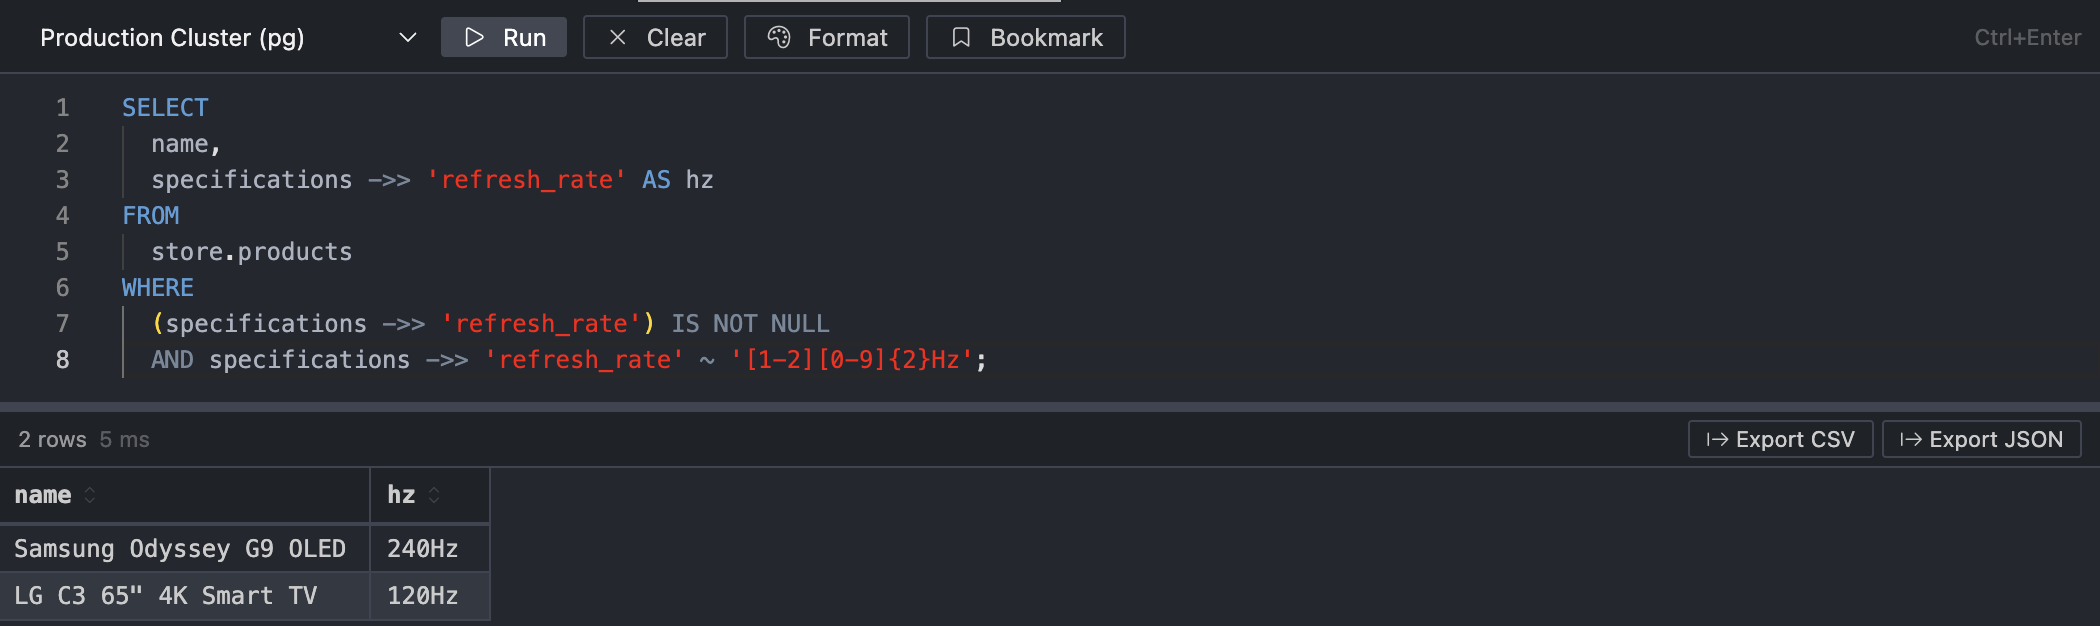
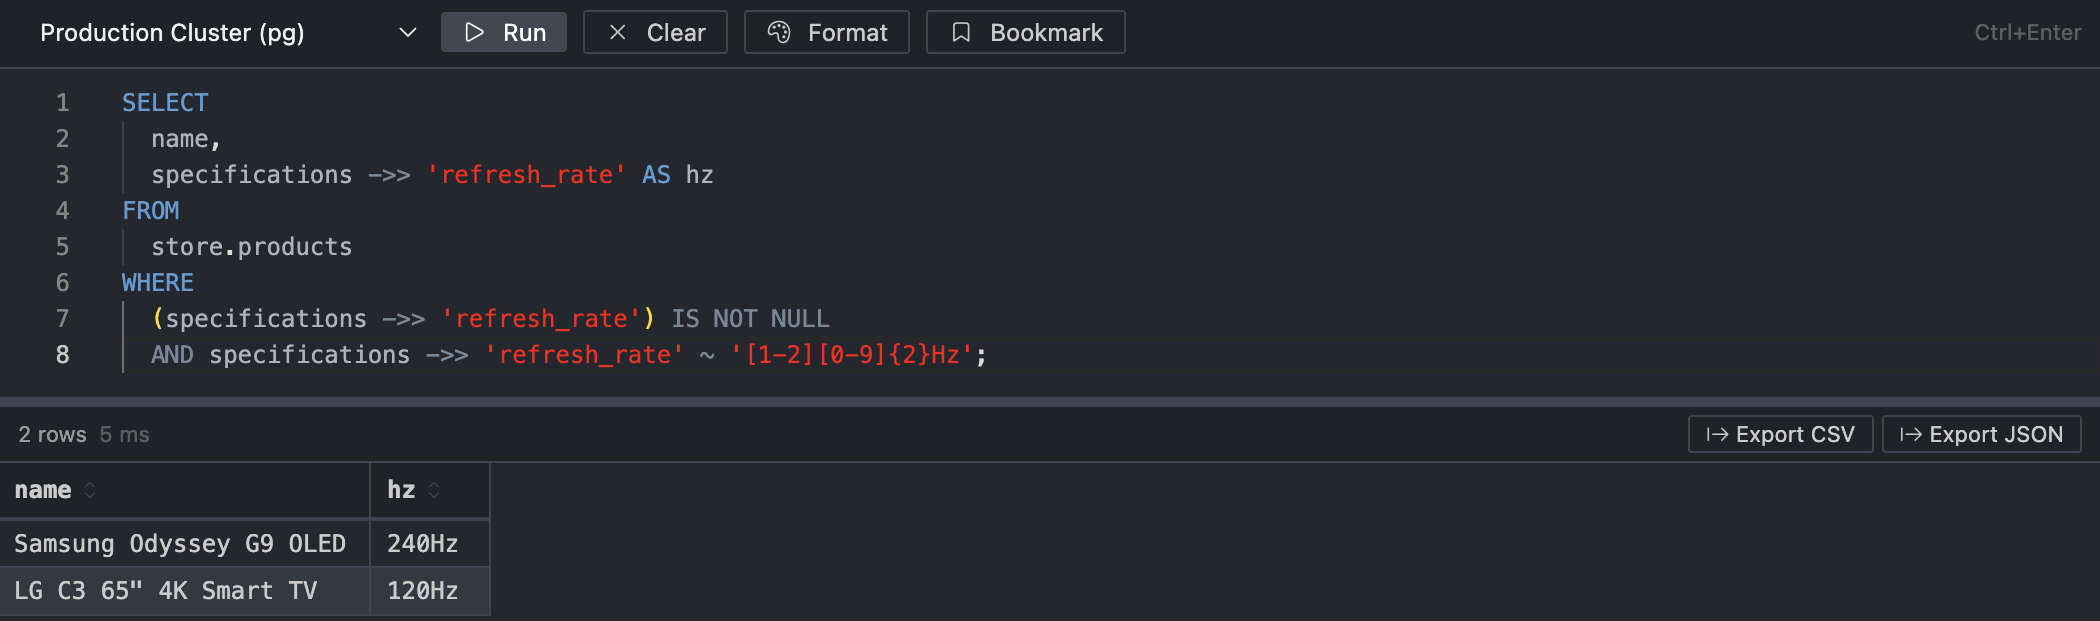
chore: bump version to 0.1.5

diff --git a/tests/webview/tableView.test.tsx b/tests/webview/tableView.test.tsx
@@ -339,8 +339,11 @@ describe("TableView", () => {
       expect(screen.getByRole("table")).toBeTruthy();
     });
 
-    expect(screen.getByTitle("Primary Key")).toBeTruthy();
-    expect(screen.getByTitle("Foreign Key")).toBeTruthy();
+    const pkHeader = screen.getByText("id").closest("th");
+    const fkHeader = screen.getByText("role_id").closest("th");
+
+    expect(pkHeader?.querySelectorAll(".codicon-key")).toHaveLength(1);
+    expect(fkHeader?.querySelectorAll(".codicon-key")).toHaveLength(1);
   });
 
   it("shows column detail tooltip on header hover text", async () => {

diff --git a/README.md b/README.md
@@ -2,14 +2,14 @@
 
 <br/>
 
-<img src="media/img-market-6.png" alt="RapiDB" width="100%"/>
+<img src="media/img-market-6.png" alt="RapiDB" width="100%" />
 
 <br/>
 <br/>
 
 # RapiDB — Database Client for VS Code
 
-### PostgreSQL · MySQL · MSSQL · SQLite · MariaDB · Oracle
+### PostgreSQL · MSSQL · MySQL · MariaDB · SQLite · Oracle
 #### All in one place. Never leaving your editor.
 
 <br/>
@@ -49,23 +49,31 @@ Your database lives in the sidebar — same window, same shortcuts, same theme.
 
 ### 🔌 Connect to anything
 
-PostgreSQL, MySQL, MS SQL Server, SQLite, MariaDB, Oracle — all supported out of the box. SSL, self-signed certs, Oracle service names and Thick Mode with Instant Client, connection folders to keep things organized.
+PostgreSQL, MS SQL Server, MySQL, MariaDB, SQLite, Oracle — all supported out of the box. SSL, self-signed certs, Oracle service names and Thick Mode with Instant Client, connection folders to keep things organized.
 
-<img src="media/img-market-3.png" alt="Connection Form" width="600"/>
+<img src="media/img-market-3.png" alt="Connection Form" width="100%" />
 
 <br/>
 
 ### 🌲 Browse your schema without a single query
 
-The **Database Explorer** tree expands into databases → schemas → tables, views, functions, and stored procedures. Right-click any table to grab its name, open the data viewer, inspect the schema, or pull the DDL — no typing required.
+Saved connections can be grouped into folders, and each connection expands into databases → schemas → tables, views, materialized views, functions, procedures, sequences, and types. Right-click any object to copy its name, inspect columns with PK/FK badges, constraints, indexes, and triggers, open the data viewer where it applies, or pull the DDL / definition — no typing required.
 
-<img src="media/img-market-5.png" width="320" alt="Database Explorer tree" />
+<img src="media/img-market-5.png" alt="Database Explorer tree" width="250" />
 
 <br/>
 
 ### 🗂️ Query History & Bookmarks
 
 Every query you run lands in **Query History** — click any entry to reopen it in the editor. Queries you want to keep forever go into **Bookmarks** with a single press. Query History limit is configurable.
+
+<br/>
+
+### 🧩 ERD with foreign key links
+
+Open ERD from a database or schema node to visualize tables and the foreign key relationships between them. The diagram is built from live schema metadata, so it stays aligned with the current database snapshot.
+
+<img src="media/img-market-4.png" alt="Database Explorer tree" width="100%" />
 
 <br/>
 
@@ -78,7 +86,7 @@ The query editor runs on **Monaco** — the same engine as VS Code itself. You g
 - ⌨️ `Ctrl+Enter` / `F5` to run · Select a fragment to run just that part
 - ↕️ Drag the divider to resize editor vs results
 
-<img src="media/img-market-2.png" alt="SQL Editor with results" width="700"/>
+<img src="media/img-market-2.png" alt="SQL Editor with results" width="700" />
 
 <br/>
 
@@ -102,25 +110,15 @@ Click any table → the **Table Data Viewer** opens:
 | Feature | Detail |
 |---|---|
 | Pagination | 25 / 100 / 500 / 1000 rows per page |
-| Filtering | Per-column filters |
+| Filtering | Draft-aware per-column filters |
 | Inline editing | Click a cell → type → Enter |
-| New rows | Insert bar at the bottom |
+| New rows | Insert bar at the top |
 | Deletion | Select rows and delete |
 | Safety | Preview-first apply flow with verification; transactional where applicable |
 
 <br/>
 
-<img src="media/img-market-1.png" alt="Table Data Viewer" width="700"/>
-
-<br/>
-
-### 🔍 Schema inspector
-
-Right-click → **Open Schema** to see every column with its type, nullability, default value, and PK / FK badges. Indexes and foreign keys get their own sections.
-
-Everything you'd normally Google `information_schema` for — **one click away**.
-
-<img src="media/img-market-4.png" alt="Schema Inspector" width="700"/>
+<img src="media/img-market-1.png" alt="Table Data Viewer" width="700" />
 
 <br/>
 
@@ -130,6 +128,9 @@ Everything you'd normally Google `information_schema` for — **one click away**
 
 | Setting | Default | What it does |
 |---|---|---|
+| `rapidb.connections` | `[]` | Saved connections, including folders and other data |
+| `rapidb.connectionTimeoutSeconds` | `15` | Timeout for establishing a database connection |
+| `rapidb.dbOperationTimeoutSeconds` | `180` | Timeout for queries, metadata, DDL, and routine loading |
 | `rapidb.queryRowLimit` | `10 000` | Cap on rows returned per query (100–100 000) |
 | `rapidb.queryHistoryLimit` | `100` | How many past queries to remember |
 | `rapidb.defaultPageSize` | `25` | Default rows per page in the Table Data Viewer |
@@ -167,6 +168,7 @@ Everything you'd normally Google `information_schema` for — **one click away**
 |---|---|
 | Extension host | TypeScript, VS Code Extension API |
 | Webview UI | React 19, Monaco Editor, TanStack Table, TanStack Virtual, Zustand |
+| ERD | `@xyflow/react`, `@dagrejs/dagre` |
 | SQL formatting | sql-formatter |
 | DB drivers | `pg`, `mysql2`, `mssql`, `oracledb`, `node-sqlite3-wasm` |
 | Bundler | esbuild |